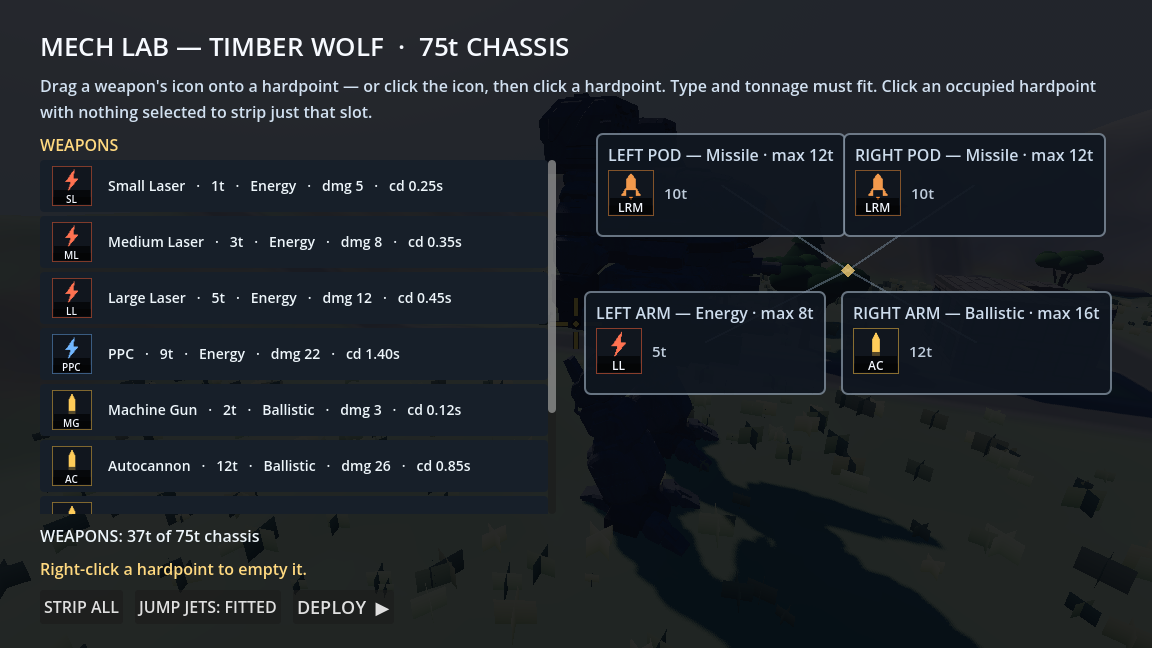
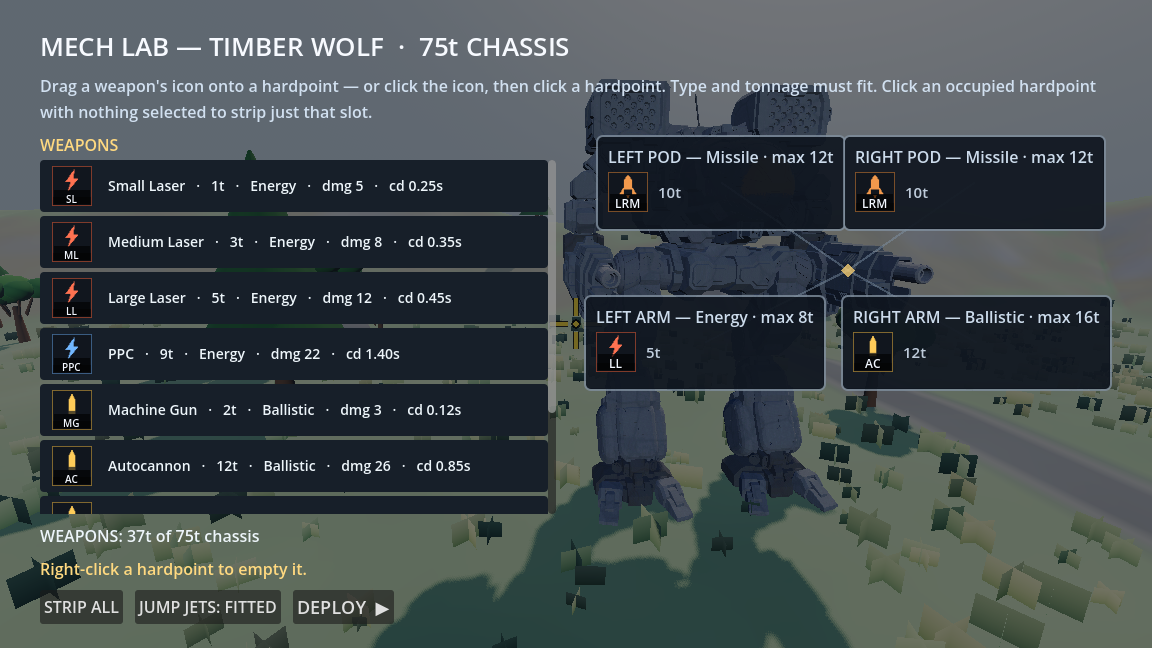
lab: lighter dim + compact panels for the showroom view (owner)
Backdrop alpha 0.85 -> 0.55: the mech is the centerpiece now and must read through the lab; rows and panels carry their own opaque backgrounds, so text contrast holds. Slot panels shrink to 200x96 with 40px tiles so they sit on the machine MW4-style instead of walling it off.

diff --git a/godot/MechLab.cs b/godot/MechLab.cs
@@ -252,7 +252,7 @@ public partial class MechLab : Control
         // to nothing while the containers overflowed visibly — the
         // lab's text sat directly on the bright scene.
         SetAnchorsAndOffsetsPreset(LayoutPreset.FullRect);
-        var bg = new ColorRect { Color = new Color(0.012f, 0.02f, 0.035f, 0.85f) }; // translucent (owner): the mech stays visible behind the lab, dimmed enough to read against
+        var bg = new ColorRect { Color = new Color(0.012f, 0.02f, 0.035f, 0.55f) }; // light dim (owner): the mech is the lab's centerpiece and must read clearly through it; panels and rows carry their own opaque backgrounds
         bg.SetAnchorsAndOffsetsPreset(LayoutPreset.FullRect);
         AddChild(bg);
 
@@ -333,7 +333,7 @@ public partial class MechLab : Control
         mid.AddChild(paperdoll);
         foreach (var slot in Spec.Slots)
         {
-            var panel = new SlotPanel { SlotId = slot.Id, Lab = this, CustomMinimumSize = new Vector2(225, 104) };
+            var panel = new SlotPanel { SlotId = slot.Id, Lab = this, CustomMinimumSize = new Vector2(200, 96) };
             var sb = new StyleBoxFlat
             {
                 BgColor = new Color(0.06f, 0.085f, 0.12f, 0.92f),
@@ -352,7 +352,7 @@ public partial class MechLab : Control
             var tileRow = new HBoxContainer();
             tileRow.AddThemeConstantOverride("separation", 10);
             vb.AddChild(tileRow);
-            panel.Tile = new Control { CustomMinimumSize = new Vector2(46, 46), MouseFilter = MouseFilterEnum.Ignore }; // input falls through to the panel: right-click on the tile still strips the slot
+            panel.Tile = new Control { CustomMinimumSize = new Vector2(40, 40), MouseFilter = MouseFilterEnum.Ignore }; // input falls through to the panel: right-click on the tile still strips the slot
             panel.TileTex = new TextureRect { StretchMode = TextureRect.StretchModeEnum.KeepAspectCentered, ExpandMode = TextureRect.ExpandModeEnum.IgnoreSize, MouseFilter = MouseFilterEnum.Ignore };
             panel.TileTex.SetAnchorsAndOffsetsPreset(Control.LayoutPreset.FullRect);
             panel.Tile.AddChild(panel.TileTex);
